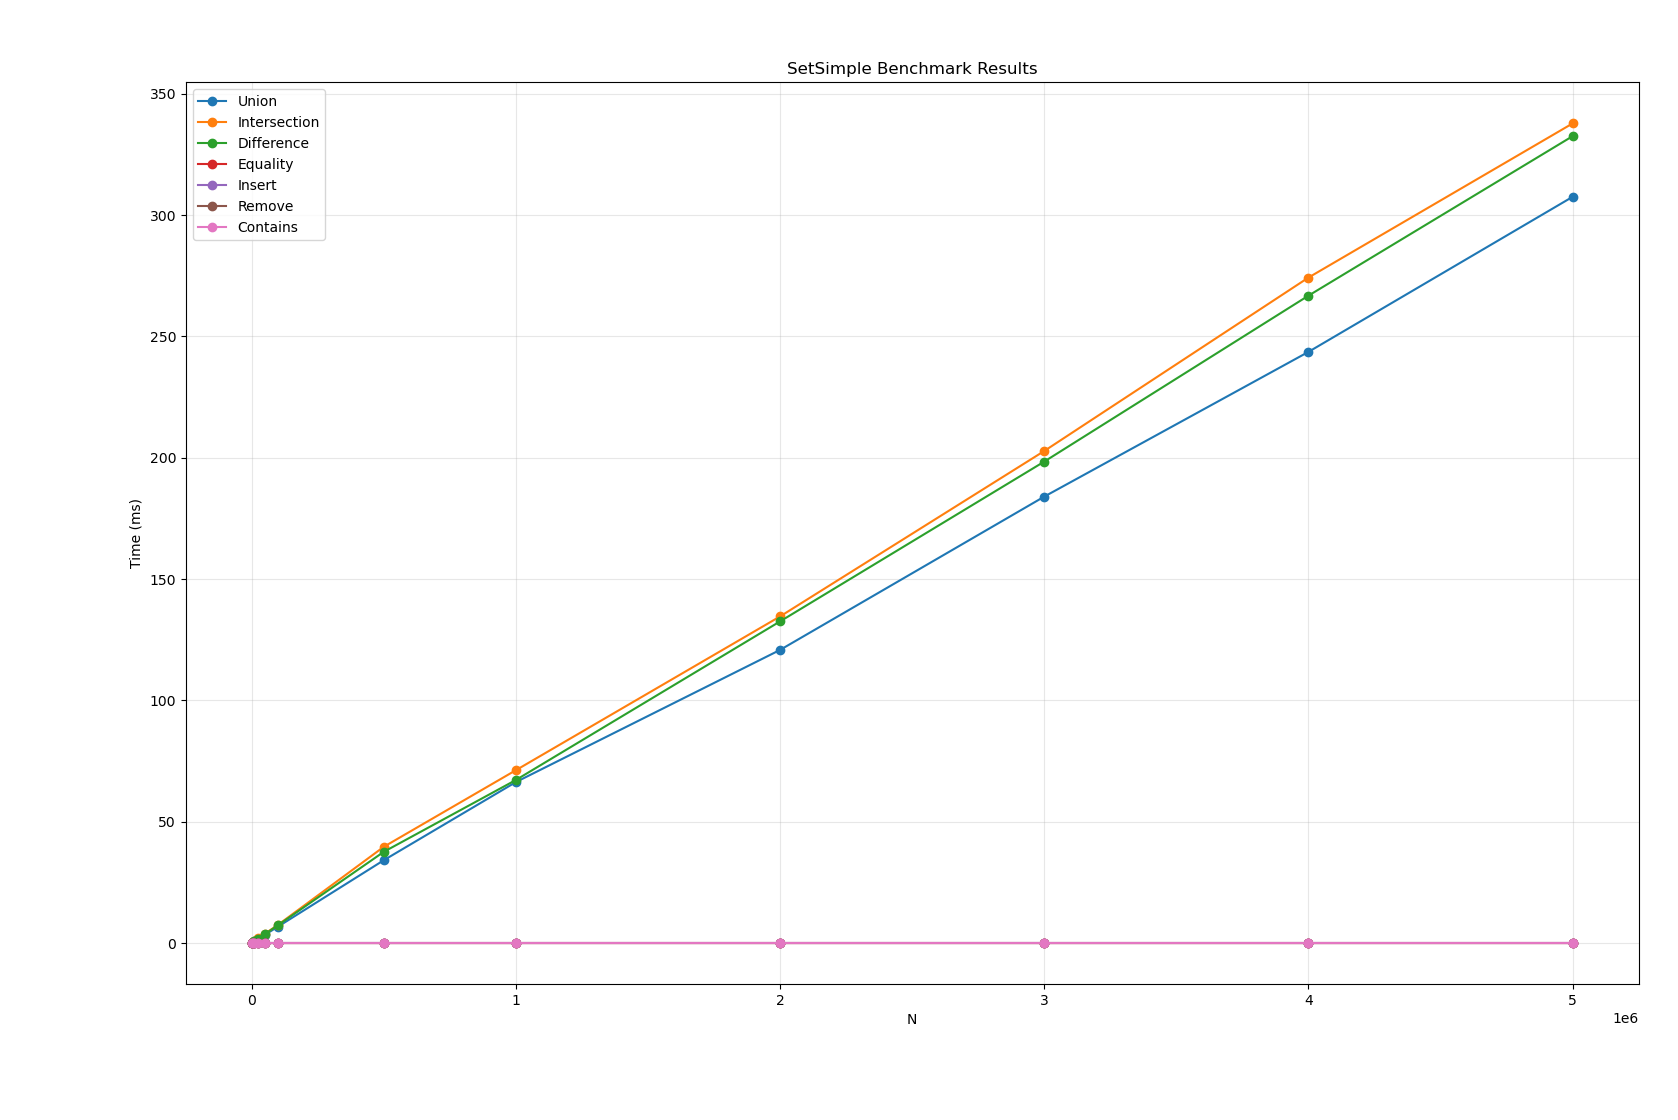
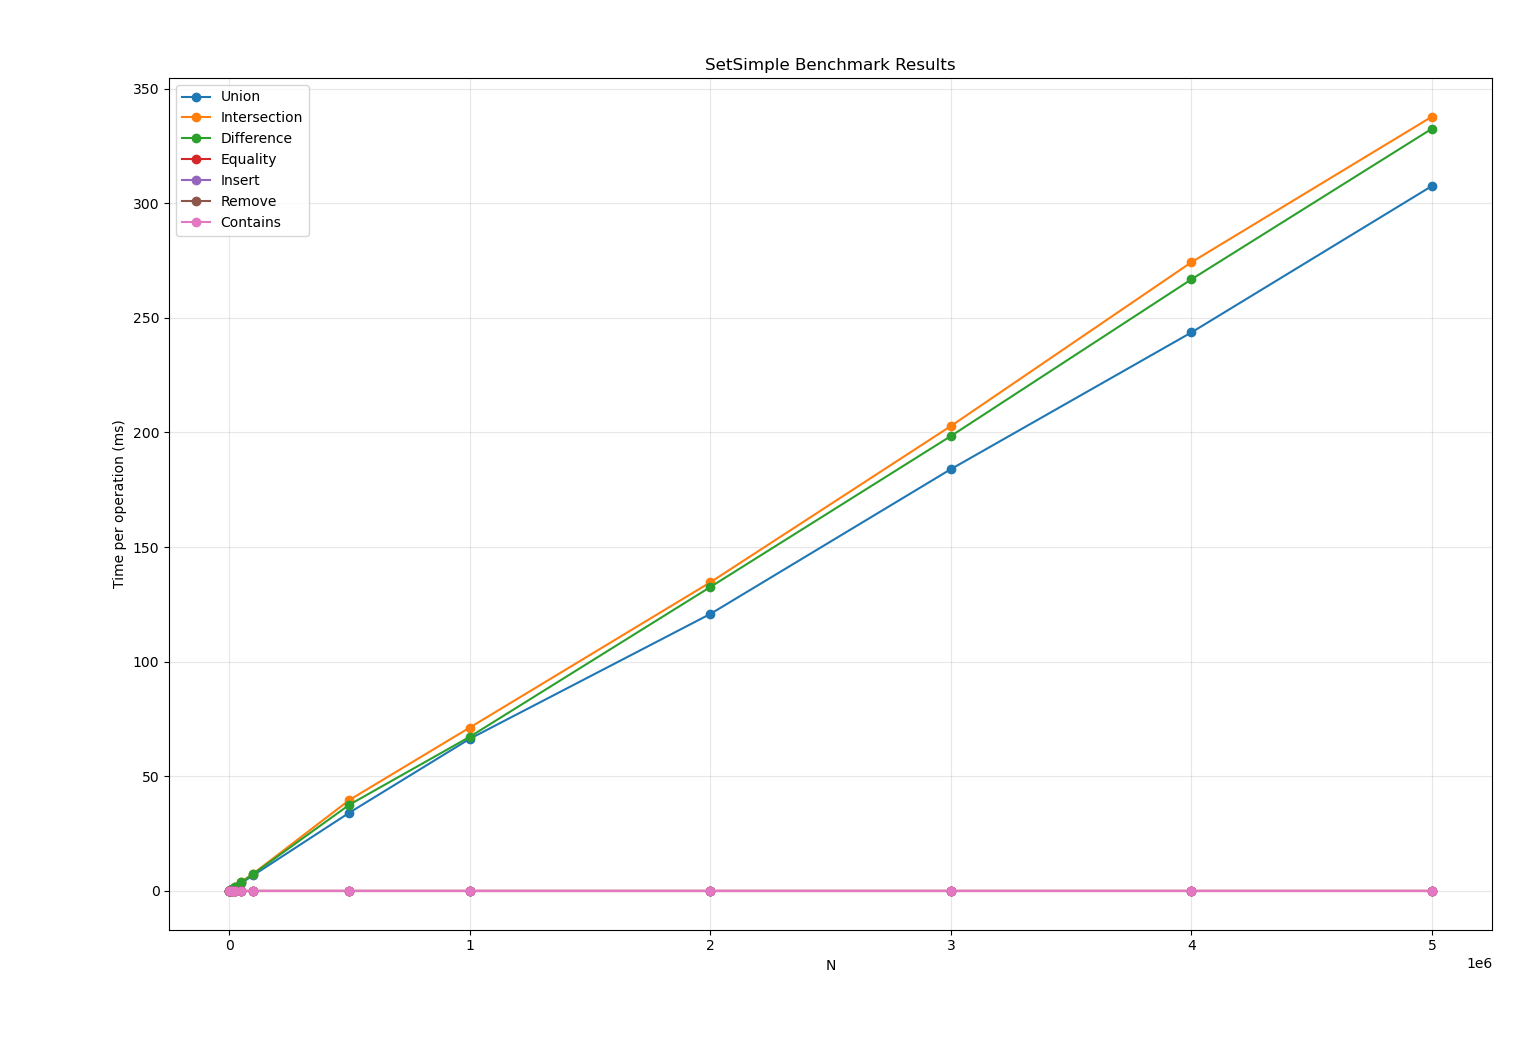
feat(algosy2): improve benchmark graph axis labeling

diff --git a/algosy2/zadanie00/a/z00a.py b/algosy2/zadanie00/a/z00a.py
@@ -34,7 +34,7 @@ def main():
         plt.plot(n_values, measurements, marker="o", label=name)
 
     plt.xlabel("N")
-    plt.ylabel("Time (ms)")
+    plt.ylabel("Time per operation (ms)")
     plt.title("SetSimple Benchmark Results")
     plt.legend()
     plt.grid(True, alpha=0.3)

diff --git a/algosy2/zadanie01/b/z01b.py b/algosy2/zadanie01/b/z01b.py
@@ -31,7 +31,7 @@ def main():
         plt.plot(n_values, measurements, marker="o", label=name)
 
     plt.xlabel("N")
-    plt.ylabel("Time (ms)")
+    plt.ylabel("Time per operation (ms)")
     plt.title("SetLinked Benchmark Results")
     plt.legend()
     plt.grid(True, alpha=0.3)
